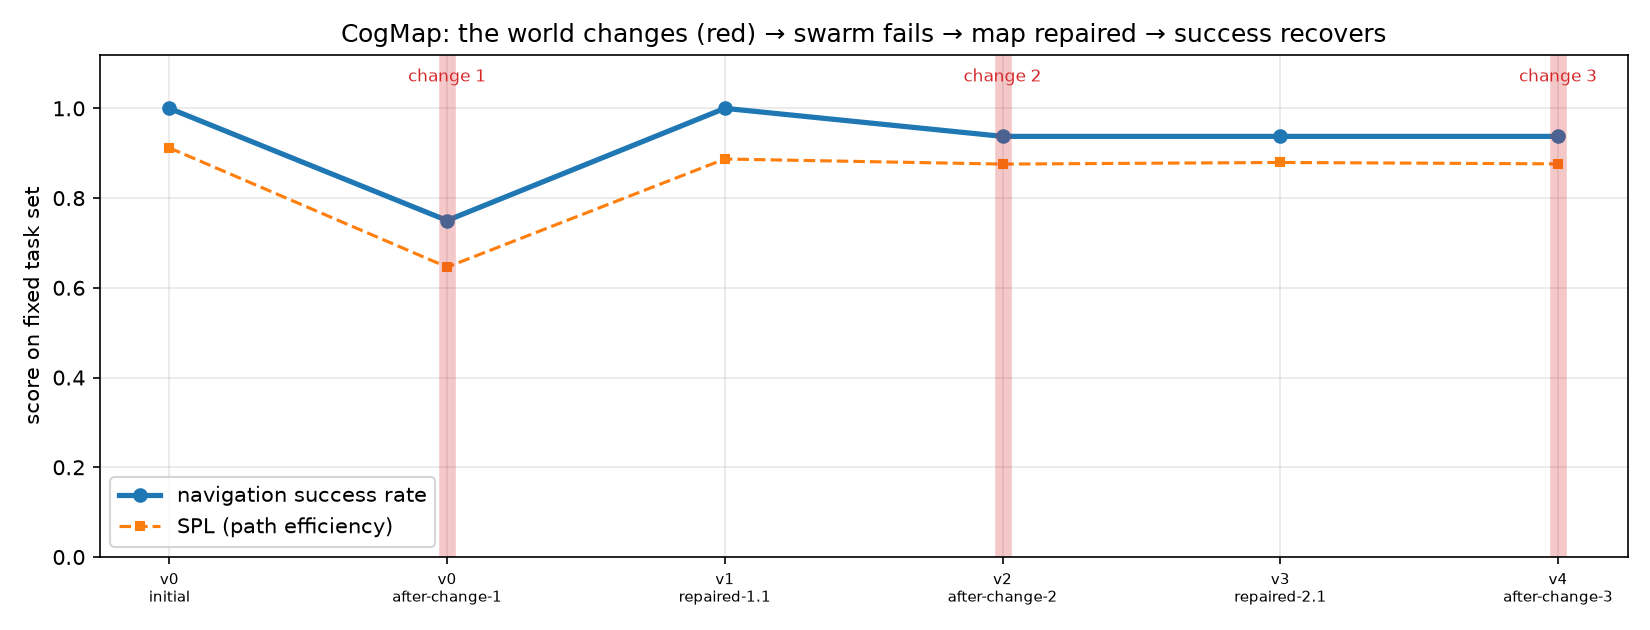
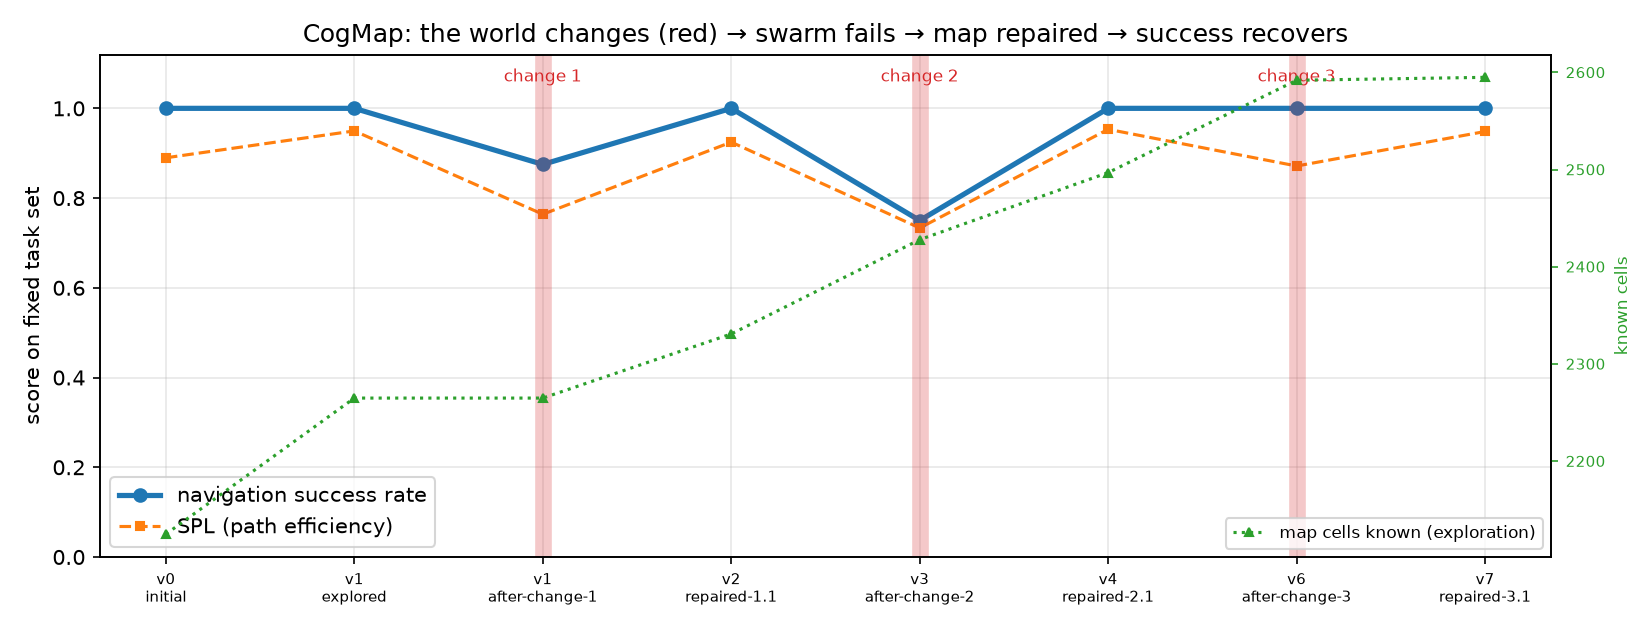
README: real-map ablation (full loop vs rule-only); refreshed office charts
Claude-Session: https://claude.ai/code/session_01PVyCnTjrk1sHNvSkmBmnwN

diff --git a/README.md b/README.md
@@ -114,6 +114,20 @@ to the cells that changed before, they saw the difference, and the map was repai
 
 <p align="center"><img src="docs/img/tum_curve.png" width="58%"> <img src="docs/img/tum_steps.png" width="40%"></p>
 
+
+### Ablation on the real office scan: what the outer loops buy
+
+Cells read `success / collisions right after the change → success after repair`. Same scan, same 12 tasks, same three changes.
+
+| variant | round 1 | round 2 | round 3 | final map | known cells v0 → end |
+|---|---|---|---|---|---|
+| full loop (patrols + exploration + LLM repair) | 88%/24c → 100% in 1 repair | 75%/9c → 100% in 1 repair | 100%/7c (patrol caught it) → 100% in 1 repair | v8 | 2125 → 2595 |
+| rule repair only (no patrols, no exploration, no LLM) | 81%/35c → 100% in 1 repair | 75%/6c → 100% in 1 repair | 88%/18c → 100% in 1 repair | v3 | 2125 → 2384 |
+
+Same recovery power in both (the deterministic repair is the workhorse), but with patrols + exploration the third change is
+caught **before the task swarm runs** (100% instead of 88%, 7 instead of 18 collisions), and the map ends with 22% more
+known cells than the scan started with (2125 → 2595) because scouts kept pushing the frontier between changes.
+
 ### Ablation (synthetic apartment): what each part of the loop buys
 
 Cells are `final success / repairs needed / agent steps to recover`.

diff --git a/PROGRESS.md b/PROGRESS.md
@@ -63,3 +63,6 @@
 ## 04:03 PDT (iteration 8)
 - Go2 now walks an A* path from the CogMap belief on the scanned map (Genesis, kinematic base + trot): out/venue_test/go2_walk.mp4 (9.6 s); wired into run_venue.sh + dashboard.
 - Office ablation (rule-only, no patrols/explore/LLM) done: out/office_ablation. Full office run with exploration: out/office (finishing). scripts/ablation_table.py prints the README table.
+
+## 04:05 PDT (iteration 9)
+- Office run with exploration finished: v0 100% → explored (+140 cells, SPL .89→.95) → change1 88%/24c → 100% → change2 75%/9c → 100% → change3 caught by patrol (100%/7c) → 100%; known cells 2125 → 2595. Real-map ablation table (full vs rule-only) added to README; docs/img refreshed from out/office.
